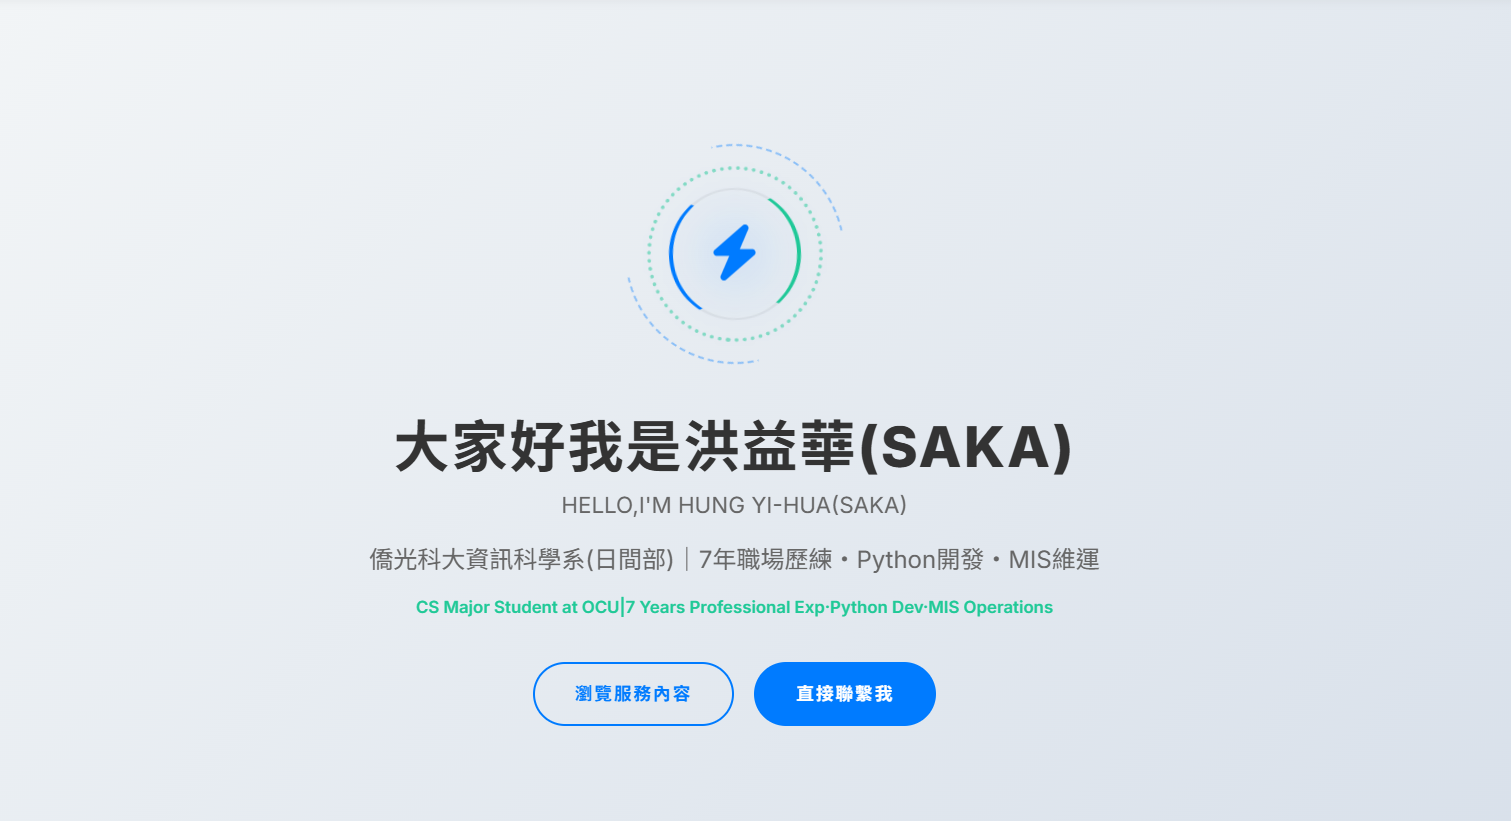
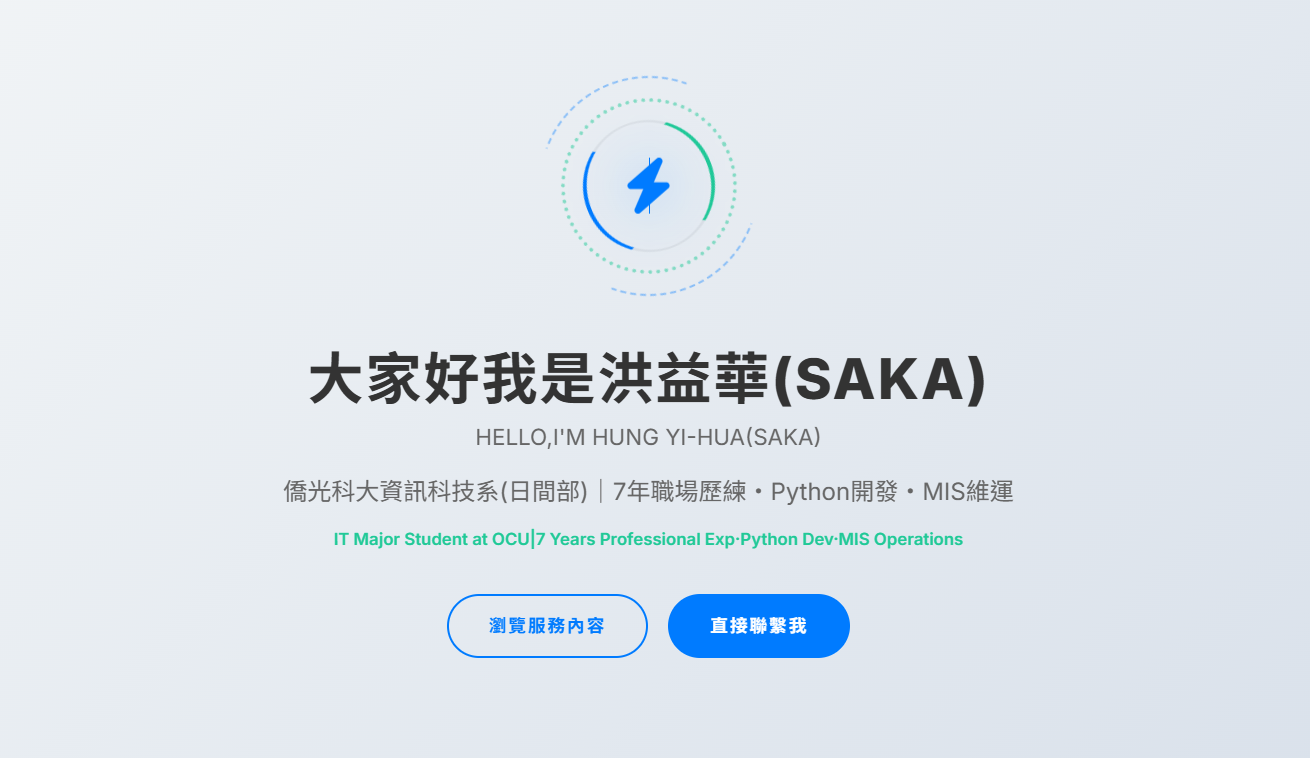
更新index0126-2

Changed region(s): [[0.2137, 0.4551, 0.7939, 0.9103], [0.4275, 0.1517, 0.5496, 0.3945]]

diff --git a/index.html b/index.html
@@ -4,13 +4,13 @@
   <meta charset="UTF-8" />
   <meta name="viewport" content="width=device-width, initial-scale=1" />
   
-  <title>洪益華(Saka)｜資深CS系學生&全端開發作品集</title>
+  <title>洪益華(Saka)｜資深IT系學生&全端開發作品集</title>
 
-  <meta name="description" content="洪益華(Saka)的個人網站。現就讀僑光科大資訊科學系，擁有7年職場歷練，專注於MIS系統維運、Python資料分析與前端網頁開發。" />
+  <meta name="description" content="洪益華(Saka)的個人網站。現就讀僑光科大資訊科技系，擁有7年職場歷練，專注於MIS系統維運、Python資料分析與前端網頁開發。" />
 
   <meta property="og:title" content="洪益華(Saka)個人作品集&職涯履歷" />
   
-  <meta property="og:description" content="7年職場歷練xCS本科系學生。點擊查看：MIS系統維運/Python爬蟲/詐騙防制數據平台專案。" />
+  <meta property="og:description" content="7年職場歷練xIT本科系學生。點擊查看：MIS系統維運/Python爬蟲/詐騙防制數據平台專案。" />
   
   <meta property="og:image" content="https://yihua0988.github.io/cover.png" />
   <meta property="og:url" content="https://yihua0988.github.io/" />
@@ -343,9 +343,9 @@
       </h1>
       
 		<p>
-		僑光科大資訊科學系(日間部)｜7年職場歷練・Python開發・MIS維運
+		僑光科大資訊科技系(日間部)｜7年職場歷練・Python開發・MIS維運
 		<span class="en-desc">
-		CS Major Student at OCU|7 Years Professional Exp·Python Dev·MIS Operations
+		IT Major Student at OCU|7 Years Professional Exp·Python Dev·MIS Operations
 		</span>
         </p>
       
@@ -537,13 +537,13 @@
   <div class="exp-item">
   <div class="exp-meta">
     <span class="exp-period">2025 - 至今</span>
-    <span class="exp-role">資訊科學系(日間部)<strong>&</strong><br>獨立開發者</span>
+    <span class="exp-role">資訊科技系(日間部)<strong>&</strong><br>獨立開發者</span>
   </div>
   <div class="exp-content">
     <h3>僑光科技大學-跨域轉型</h3>
     <p>
       <strong>【軟硬整合的資深學生】</strong><br>
-      累積近5年工務與弱電維護實務經驗後，深刻理解「軟體與現場運作」的斷層。因此決定重返校園（日間部）攻讀資訊科學（CS）學位，補齊演算法與資料結構理論。
+      累積近5年工務與弱電維護實務經驗後，深刻理解「軟體與現場運作」的斷層。因此決定重返校園（日間部）攻讀資訊科技（IT）學位，補齊演算法與資料結構理論。
       目前致力於將過去的「機房/弱電經驗」與現在學的「Python/網頁開發」結合，成為能解決實際問題的全端工程師。
     </p>
   </div>
